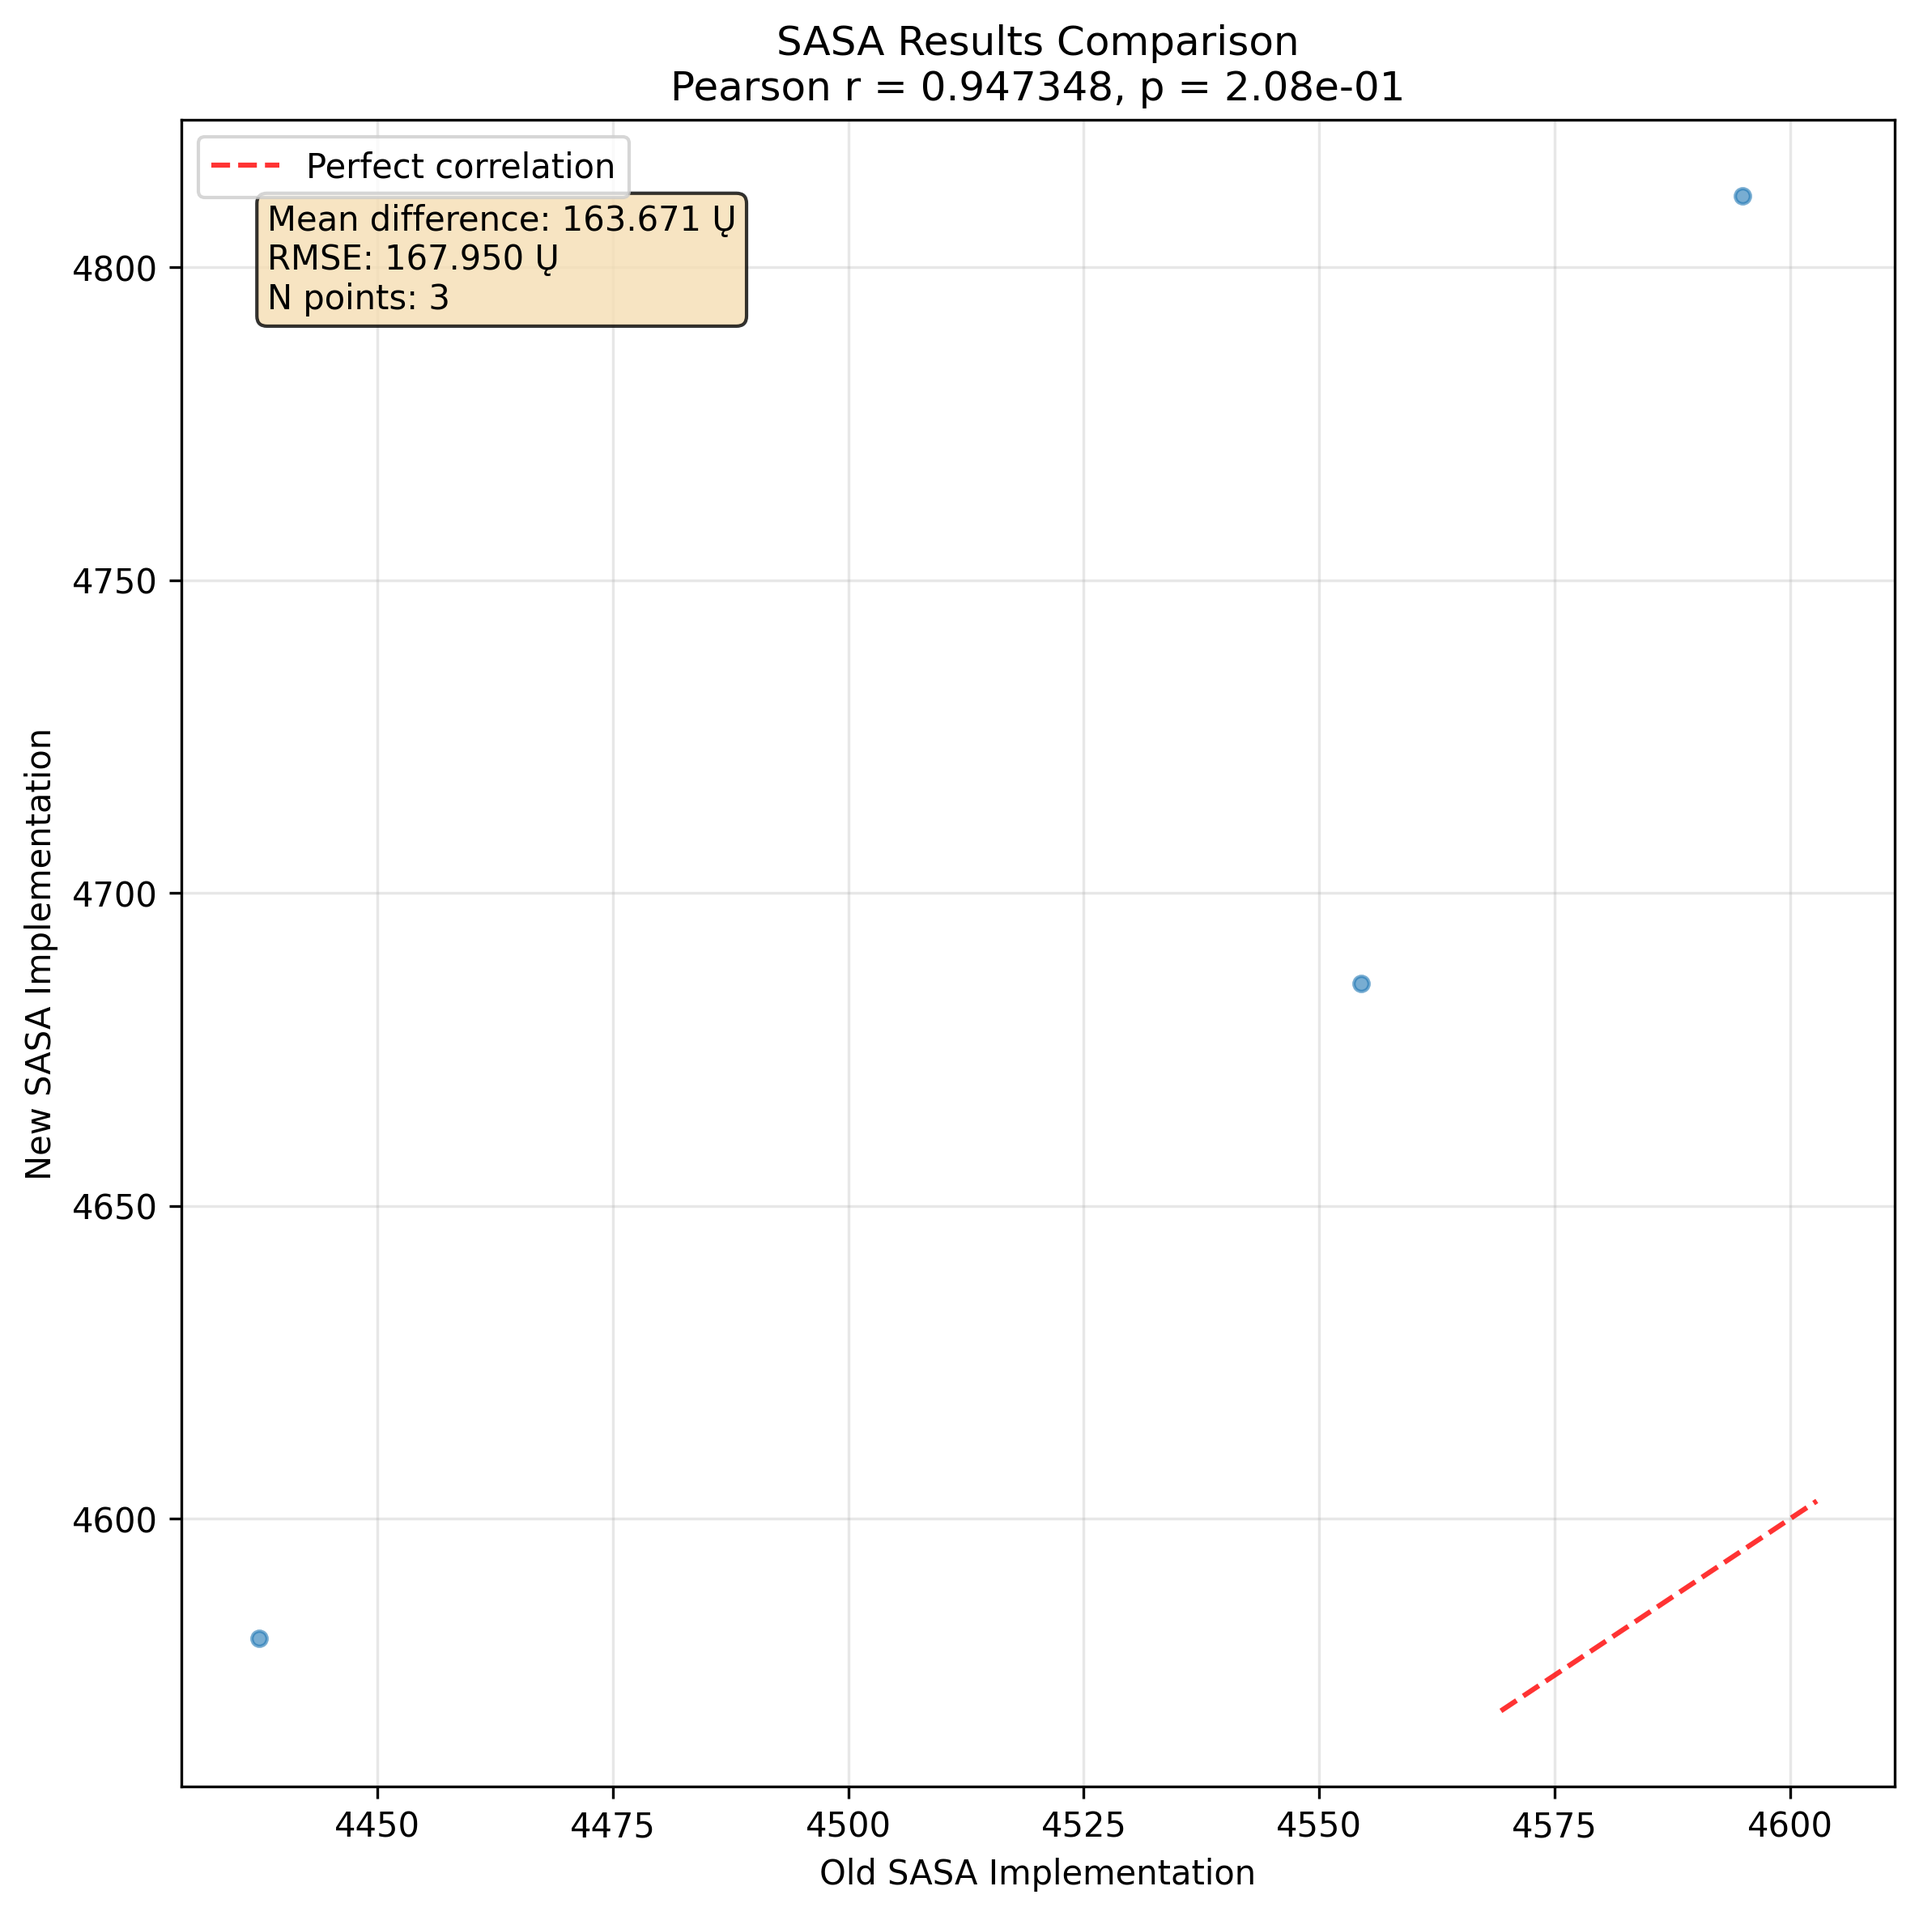
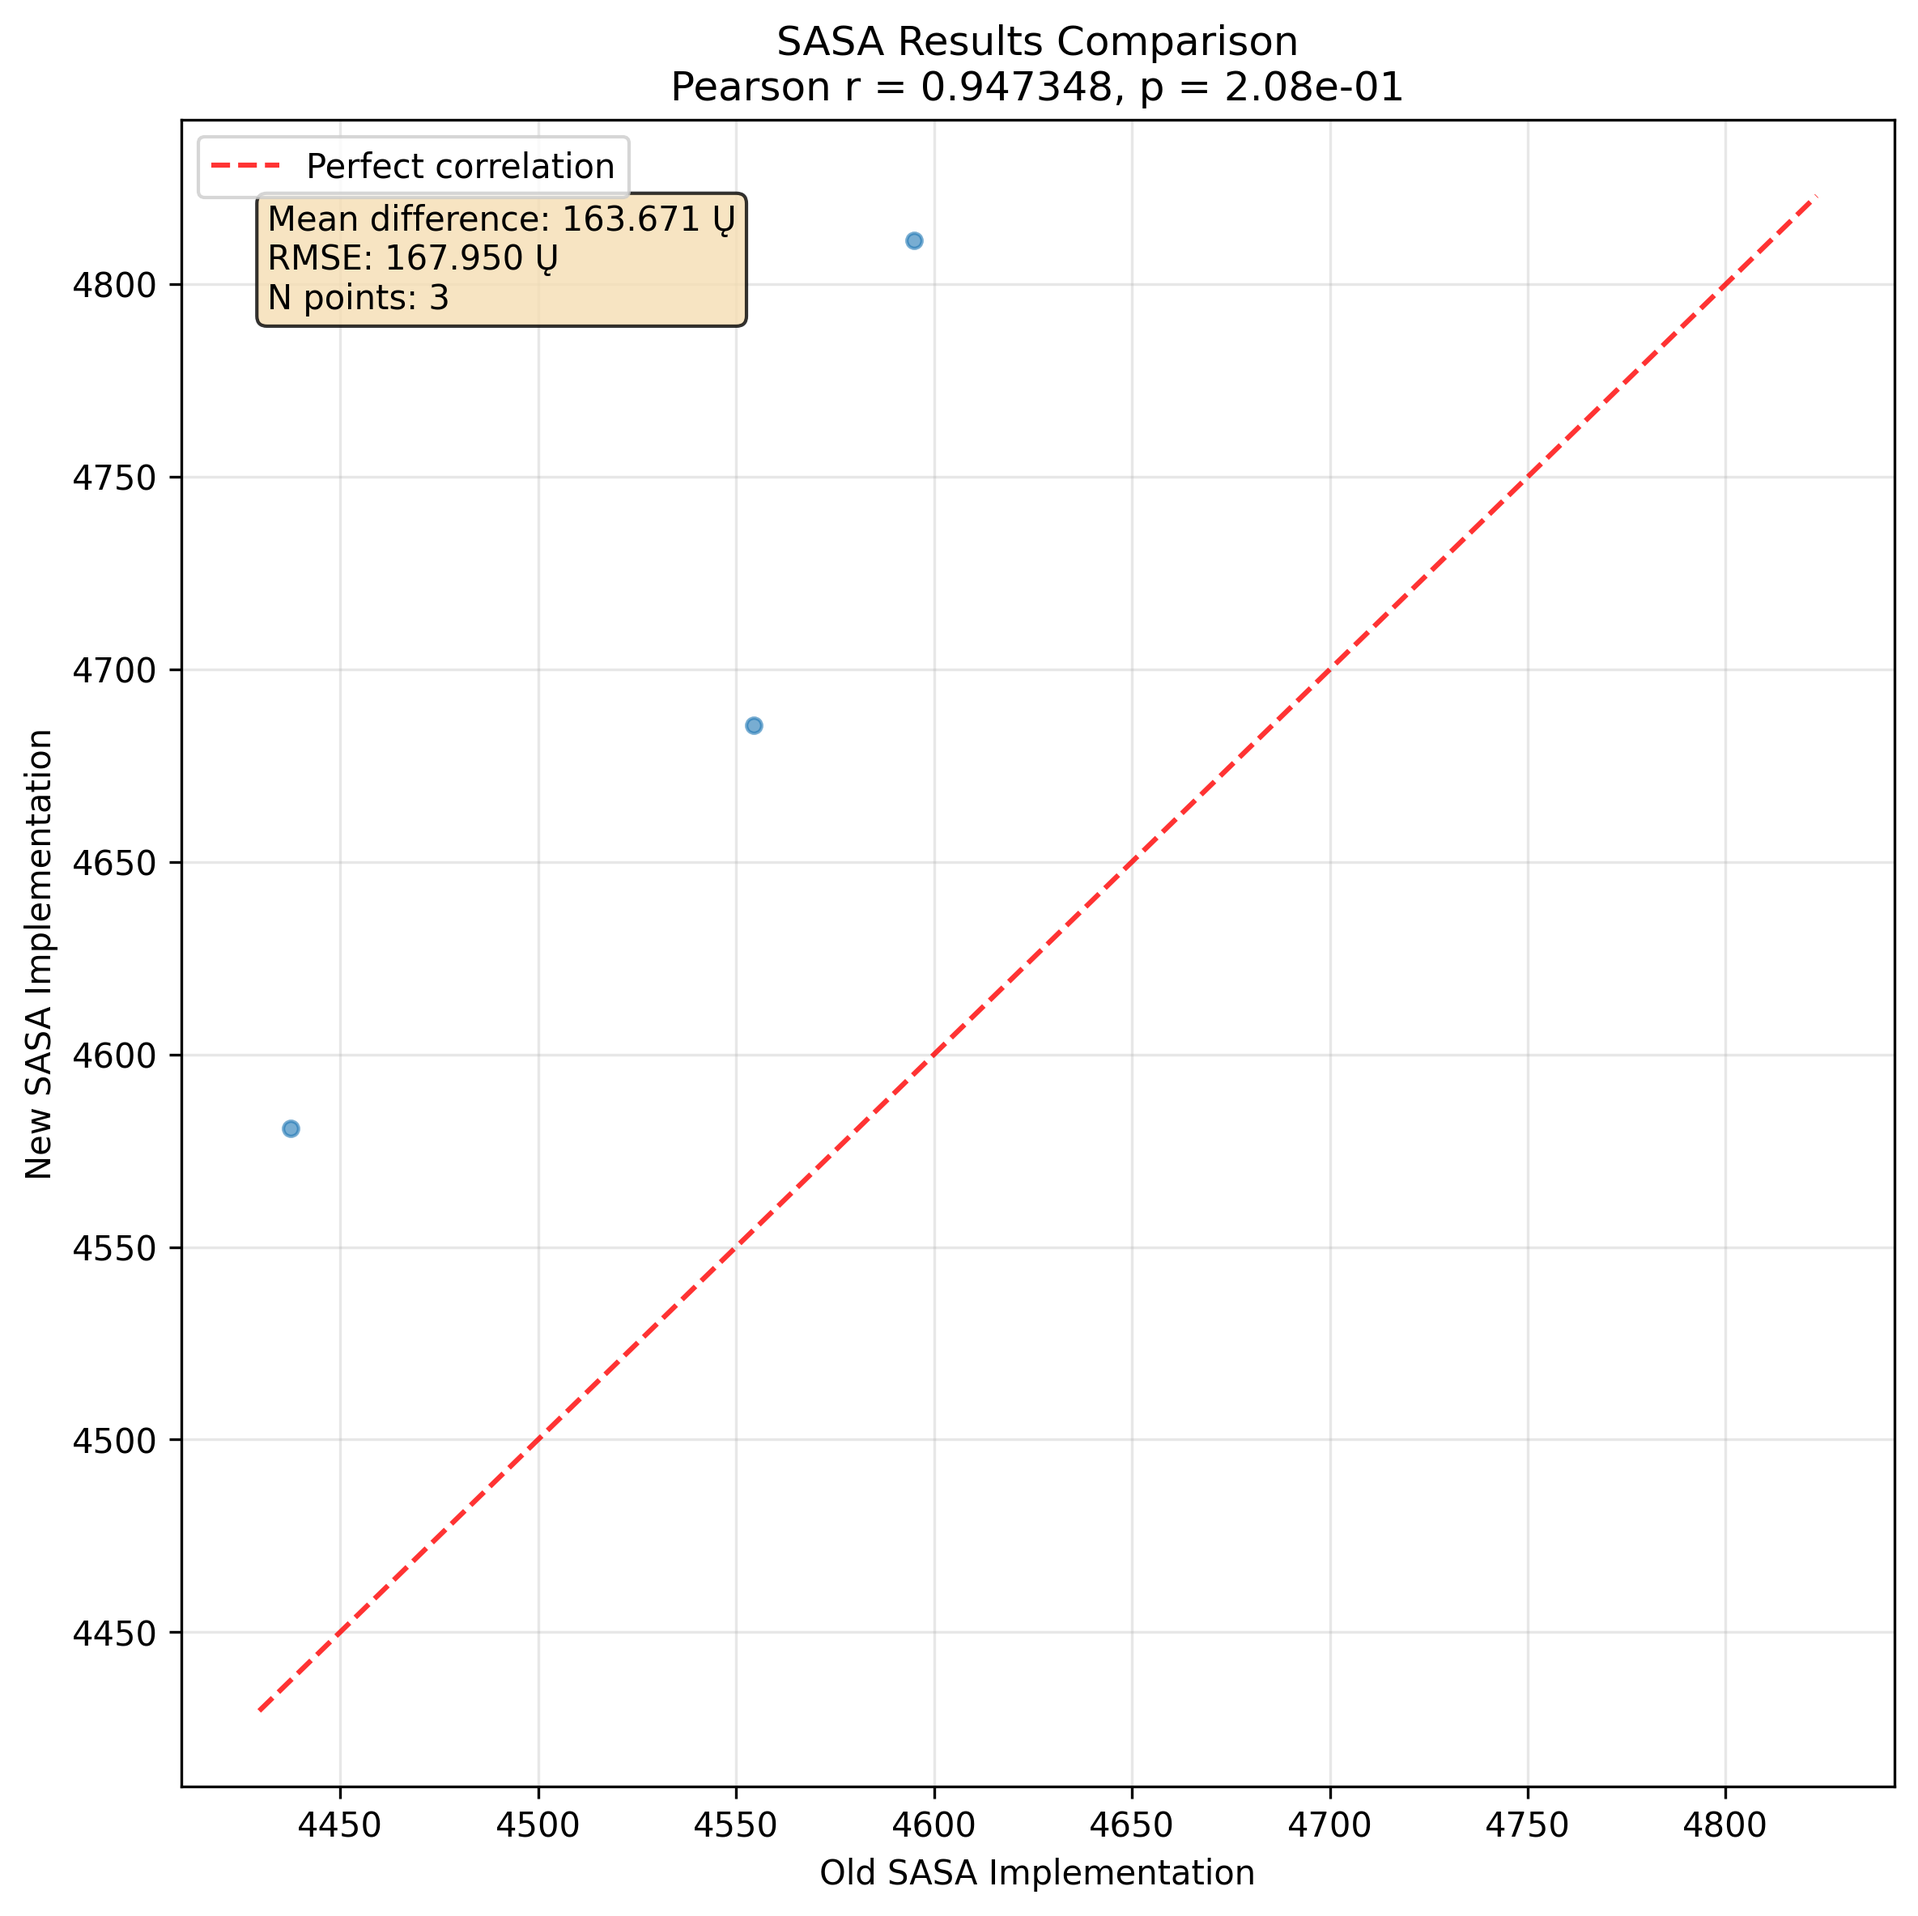
fix graph

diff --git a/bench/compare.py b/bench/compare.py
@@ -30,9 +30,9 @@ def main() -> None:
     xlim = plt.xlim()
     ylim = plt.ylim()
 
-    # Add perfect correlation line within the visible range
-    line_min = max(xlim[0], ylim[0])
-    line_max = min(xlim[1], ylim[1])
+    # Add perfect correlation line spanning the full diagonal
+    line_min = min(xlim[0], ylim[0])
+    line_max = max(xlim[1], ylim[1])
     plt.plot([line_min, line_max], [line_min, line_max], "r--", alpha=0.8, label="Perfect correlation")
 
     # Add labels and title
